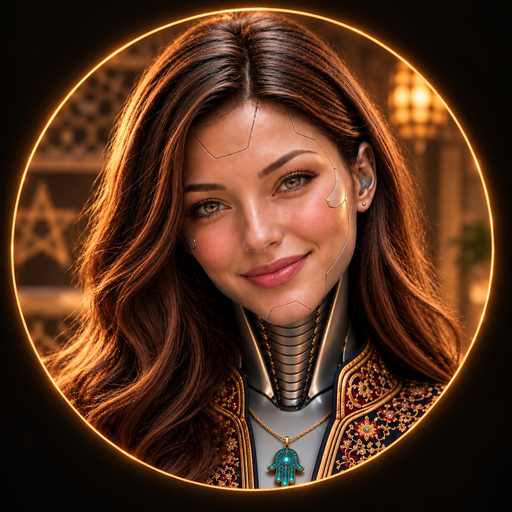
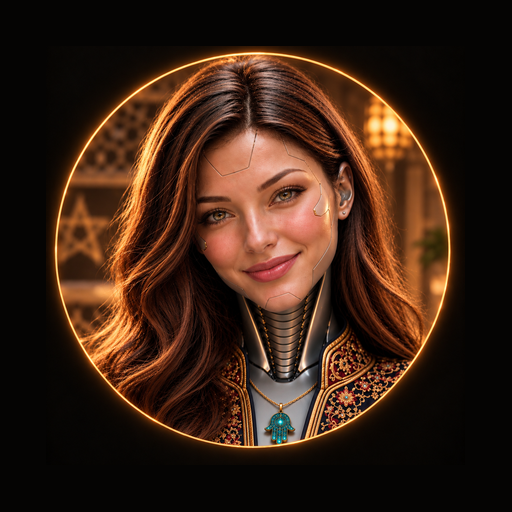
Add files via upload

diff --git a/index.html b/index.html
@@ -40,9 +40,117 @@
         rel="stylesheet"
     >
 
+    <style>
+/* === Splash === */
+  :root { --k: 1; } /* 1 = أول زيارة، 0.6 = زيارات متكررة */
+
+  #splash {
+    position: fixed; inset: 0; z-index: 9999;
+    display: flex; flex-direction: column; align-items: center; justify-content: center;
+    background: #14100c;               /* طابق هذا اللون مع background_color في manifest */
+    overflow: hidden;
+    transition: opacity .35s ease, transform .35s ease;
+  }
+  #splash.leaving { opacity: 0; transform: scale(1.03); pointer-events: none; }
+
+  /* 0.3s — ضوء ذهبي خافت ينبض نبضة واحدة */
+  .splash-glow {
+    position: absolute; width: 340px; height: 340px; border-radius: 50%;
+    background: radial-gradient(circle, rgba(229,179,92,.30) 0%, rgba(229,179,92,.10) 45%, transparent 70%);
+    opacity: 0;
+    animation: glow 1.6s ease-out calc(.3s * var(--k)) forwards;
+  }
+  @keyframes glow {
+    0%   { opacity: 0; transform: scale(.7); }
+    60%  { opacity: 1; transform: scale(1.05); }
+    100% { opacity: .75; transform: scale(1); }
+  }
+
+  /* 0.6s — الصورة تظهر تدريجياً */
+  .splash-logo {
+    position: relative; width: 130px; height: 130px; object-fit: cover;
+    border-radius: 50%;               /* الصورة نفسها فيها الإطار الذهبي */
+    box-shadow: 0 0 36px rgba(229,150,60,.28);
+    opacity: 0; transform: scale(.92);
+    animation: logoIn .7s cubic-bezier(.2,.7,.2,1) calc(.6s * var(--k)) forwards;
+  }
+  @keyframes logoIn { to { opacity: 1; transform: scale(1); } }
+
+  /* 0.9s — الاسم */
+  .splash-name {
+    position: relative; margin: 22px 0 0;
+    font: 600 34px/1.1 "Segoe UI", Roboto, "Helvetica Neue", Arial, sans-serif;
+    letter-spacing: .04em; color: #f5ecdc; direction: ltr;
+    opacity: 0; transform: translateY(6px);
+    animation: rise .6s ease calc(.9s * var(--k)) forwards;
+  }
+  .splash-name span { color: #e5b35c; }
+  @keyframes rise { to { opacity: 1; transform: none; } }
+
+  /* 1.1s — الجملة تُكشف من اليمين إلى اليسار (بدون كسر اتصال الحروف) */
+  .splash-tagline {
+    position: relative; margin: 12px 0 0; display: flex; align-items: center; gap: 8px;
+    font: 400 17px/1.4 "Noto Naskh Arabic", "Segoe UI", Tahoma, Arial, sans-serif;
+    color: #f5ecdc;
+    clip-path: inset(0 0 0 100%);
+    animation: reveal .6s steps(14, end) calc(1.1s * var(--k)) forwards;
+  }
+  html[dir="ltr"] .splash-tagline { clip-path: inset(0 100% 0 0); } /* اللغات LTR: الكشف من اليسار */
+  @keyframes reveal { to { clip-path: inset(0 0 0 0); } }
+  .splash-flag { width: 22px; height: 15px; border-radius: 2px; flex: none; }
+
+  /* احترام تقليل الحركة */
+  @media (prefers-reduced-motion: reduce) {
+    .splash-glow, .splash-logo, .splash-name, .splash-tagline {
+      animation: none; opacity: 1; transform: none; clip-path: none;
+    }
+    html[dir="ltr"] .splash-tagline { clip-path: none; }
+    #splash { transition: opacity .2s ease; }
+    #splash.leaving { transform: none; }
+  }
+  </style>
+
 </head>
 
 <body>
+
+<!-- Splash screen -->
+<div id="splash" aria-hidden="true">
+  <div class="splash-glow"></div>
+  <img class="splash-logo" src="calm.png" alt="">
+  <h1 class="splash-name">Ro<span>baty</span></h1>
+  <p class="splash-tagline">
+    <span data-i18n="splash_tagline">سفيرة التراث المغربي</span>
+    <svg class="splash-flag" viewBox="0 0 30 20" xmlns="http://www.w3.org/2000/svg">
+      <rect width="30" height="20" fill="#c1272d"/>
+      <path d="M15 5.2l2.3 7.1-6-4.4h7.4l-6 4.4z" fill="none" stroke="#006233" stroke-width="1"/>
+    </svg>
+  </p>
+</div>
+<script>
+(function () {
+  var splash = document.getElementById('splash');
+  if (!splash) return;
+
+  var seen = false;
+  try { seen = sessionStorage.getItem('robaty_splash_seen') === '1'; } catch (e) {}
+  var k = seen ? 0.6 : 1;
+  document.documentElement.style.setProperty('--k', k);
+
+  var reduced = window.matchMedia('(prefers-reduced-motion: reduce)').matches;
+  var total = reduced ? 600 : Math.round(1900 * k);   // ~1.9s أول مرة، ~1.1s بعدها
+
+  setTimeout(function () {
+    splash.classList.add('leaving');
+    setTimeout(function () {
+      splash.remove();
+      try { sessionStorage.setItem('robaty_splash_seen', '1'); } catch (e) {}
+      document.dispatchEvent(new Event('splash:done'));
+    }, 380);
+  }, total);
+})();
+</script>
+
 
 <div class="outer-gold-frame">
 

diff --git a/i18n.js b/i18n.js
@@ -26,6 +26,7 @@ const translations = {
         reset_memory_aria: 'مسح الذاكرة (مؤقت، للاختبار)',
         settings_aria: 'الإعدادات',
         tagline: '🇲🇦 مغربية و أفتخر',
+        splash_tagline: 'سفيرة التراث المغربي',
         view_moments_btn: 'شوفي تصاوري ليوم',
         selected_image_alt: 'الصورة المختارة',
         remove_image_aria: 'حذف الصورة',
@@ -93,6 +94,7 @@ const translations = {
         reset_memory_aria: 'Clear memory (temporary, for testing)',
         settings_aria: 'Settings',
         tagline: '🇲🇦 Proudly Moroccan',
+        splash_tagline: 'Ambassador of Moroccan Heritage',
         view_moments_btn: "See today's photos",
         selected_image_alt: 'Selected image',
         remove_image_aria: 'Remove image',
@@ -160,6 +162,7 @@ const translations = {
         reset_memory_aria: 'Effacer la mémoire (temporaire, pour test)',
         settings_aria: 'Paramètres',
         tagline: '🇲🇦 Fière d\u2019être marocaine',
+        splash_tagline: 'Ambassadrice du patrimoine marocain',
         view_moments_btn: 'Voir mes photos du jour',
         selected_image_alt: 'Image sélectionnée',
         remove_image_aria: "Supprimer l'image",
@@ -227,6 +230,7 @@ const translations = {
         reset_memory_aria: 'Borrar memoria (temporal, para pruebas)',
         settings_aria: 'Ajustes',
         tagline: '🇲🇦 Orgullosamente marroquí',
+        splash_tagline: 'Embajadora del patrimonio marroquí',
         view_moments_btn: 'Ver mis fotos de hoy',
         selected_image_alt: 'Imagen seleccionada',
         remove_image_aria: 'Eliminar imagen',
@@ -294,6 +298,7 @@ const translations = {
         reset_memory_aria: 'Очистить память (временно, для теста)',
         settings_aria: 'Настройки',
         tagline: '🇲🇦 Горжусь тем, что марокканка',
+        splash_tagline: 'Посол марокканского наследия',
         view_moments_btn: 'Смотреть мои фото за сегодня',
         selected_image_alt: 'Выбранное изображение',
         remove_image_aria: 'Удалить изображение',
